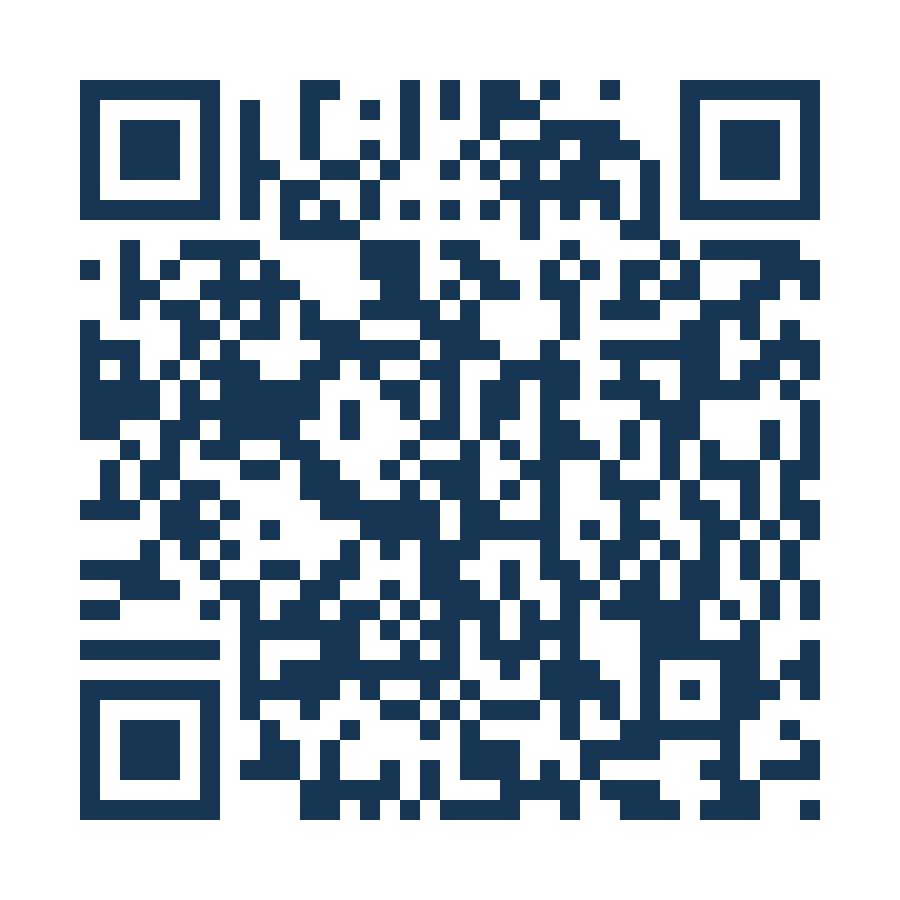
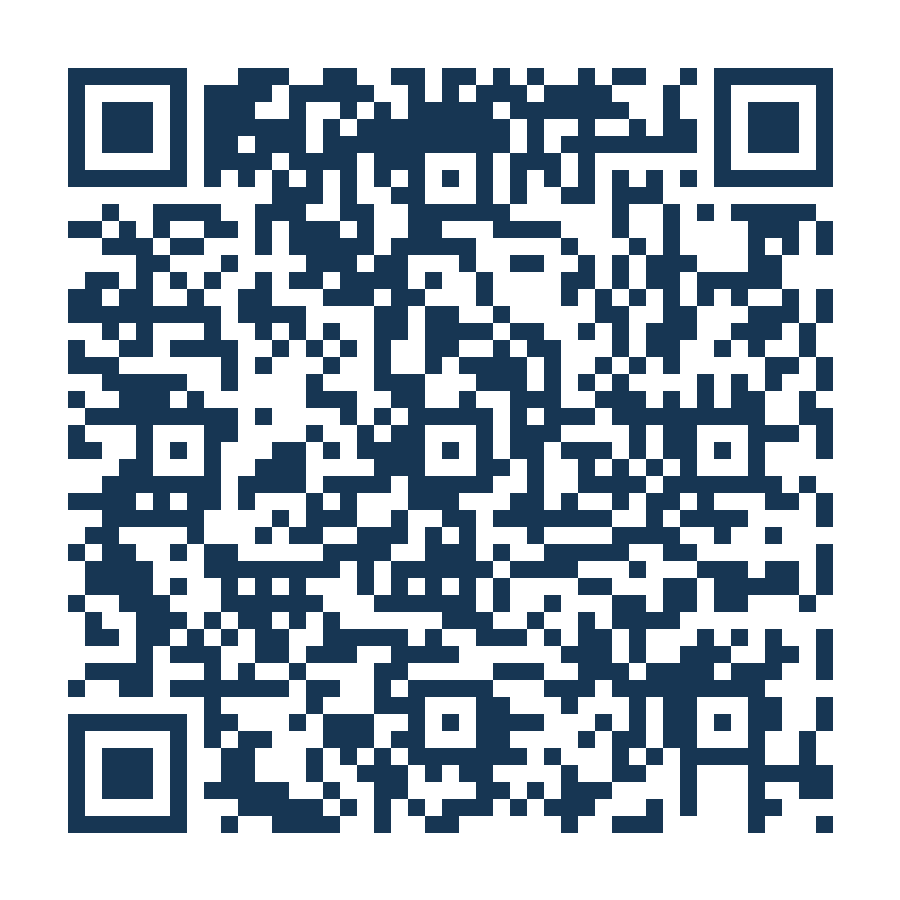
Add cache-busting QR URL

diff --git a/index.html b/index.html
@@ -5,6 +5,9 @@
   <meta name="viewport" content="width=device-width, initial-scale=1, viewport-fit=cover">
   <meta name="theme-color" content="#dff4ff">
   <meta name="color-scheme" content="light">
+  <meta http-equiv="Cache-Control" content="no-cache, no-store, must-revalidate">
+  <meta http-equiv="Pragma" content="no-cache">
+  <meta http-equiv="Expires" content="0">
   <meta name="description" content="许毕胜与李小哲的官宣纪念页。从 2024 年 5 月 20 日 20:13:14 开始，我们的故事一直在继续。">
   <meta property="og:type" content="website">
   <meta property="og:title" content="许毕胜 ♡ 李小哲｜哲and胜">
@@ -13,7 +16,7 @@
   <meta property="og:image" content="https://zhuyan621.github.io/xu-lixiao-love/assets/share-preview.webp">
   <title>许毕胜 ♡ 李小哲｜哲and胜</title>
   <link rel="icon" href="assets/favicon.svg" type="image/svg+xml">
-  <link rel="stylesheet" href="styles.css">
+  <link rel="stylesheet" href="styles.css?v=20260920b">
 </head>
 <body>
   <div class="sky" aria-hidden="true">
@@ -170,7 +173,7 @@
           <div class="qr-copy">
             <p>把这份心动分享给重要的人</p>
             <strong>扫码走进我们的故事</strong>
-            <a href="https://zhuyan621.github.io/xu-lixiao-love/" target="_blank" rel="noopener noreferrer">zhuyan621.github.io/xu-lixiao-love</a>
+            <a href="https://zhuyan621.github.io/xu-lixiao-love/index.html?v=20260920b" target="_blank" rel="noopener noreferrer">zhuyan621.github.io/xu-lixiao-love</a>
           </div>
         </div>
       </section>
@@ -195,6 +198,6 @@
   </div>
 
   <noscript><div class="noscript">请开启 JavaScript，以查看实时计时与照片相册。</div></noscript>
-  <script src="app.js"></script>
+  <script src="app.js?v=20260920b"></script>
 </body>
 </html>

diff --git a/app.js b/app.js
@@ -7,7 +7,7 @@ const CONFIG = Object.freeze({
   togetherSince: "2024-05-20T20:13:14+08:00",
   photoSelector: ".photo-card",
   music: "assets/music/te-bie-de-ren.mp3",
-  shareUrl: "https://zhuyan621.github.io/xu-lixiao-love/"
+  shareUrl: "https://zhuyan621.github.io/xu-lixiao-love/index.html?v=20260920b"
 });
 
 const body = document.body;
